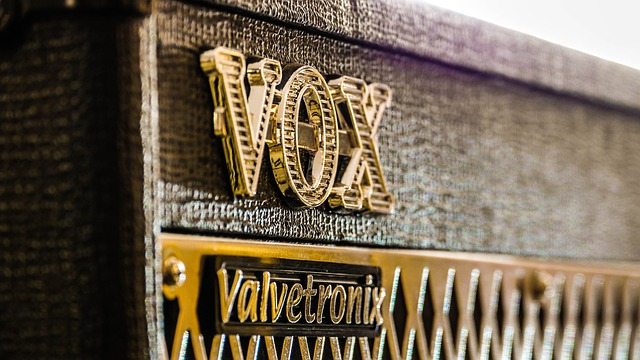
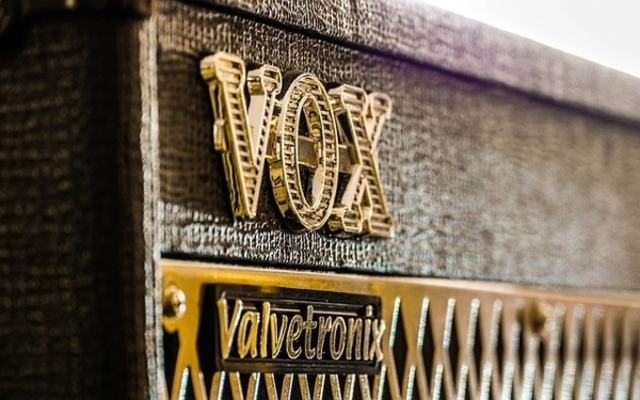
made changes to image sizes, linked the pictures and panel headings, created a location page and about page

diff --git a/GuitarStore/Content/Site.min.css b/GuitarStore/Content/Site.min.css
@@ -1,1 +1,1 @@
-.body-content{padding-left:15px;padding-right:15px;}.dl-horizontal dt{white-space:normal;}*{box-sizing:border-box;font-family:arial,sans-serif;}body{background:url(/images/background.jpeg);background-attachment:fixed;background-size:cover;background-repeat:no-repeat;padding-top:50px;padding-bottom:20px;}table,tr,td,th{background-color:#fff;color:#000;}.jumbotron{background-color:rgba(255,255,250,.7);color:#000;}.panel{background-color:rgba(255,255,250,.7);margin-top:3em;}.panel-body,.panel-footer{background-color:rgba(255,255,250,.7);}.panel-heading{background-color:rgba(255,255,250,.5);}#guitar-icon{border-radius:50px;max-height:1.5em;max-width:1.5em;}
+.body-content{padding-left:15px;padding-right:15px;}.dl-horizontal dt{white-space:normal;}*{box-sizing:border-box;font-family:arial,sans-serif;}body{background:url(/images/background.jpeg);background-attachment:fixed;background-size:cover;background-repeat:no-repeat;padding-top:50px;padding-bottom:20px;}iframe{margin-top:3em;margin-bottom:5em;}li{height:100%;}table,tr,td,th{background-color:#fff;color:#000;}.jumbotron{background-color:rgba(255,255,250,.7);}.panel{background-color:rgba(255,255,250,.7);margin-top:3em;margin-bottom:5em;}.panel .panel-body,.panel .panel-footer{background-color:rgba(255,255,250,.7);}.panel .panel-body a,.panel .panel-footer a{color:#000;}.panel .panel-heading{background-color:rgba(255,255,250,.5);}.panel .panel-heading a{color:#000;}#guitar-icon{border-radius:50px;height:100%;}

diff --git a/GuitarStore/Content/Site.less b/GuitarStore/Content/Site.less
@@ -28,6 +28,14 @@ body {
     padding-bottom: 20px;
 }
 
+iframe {
+    margin-top: 3em;
+    margin-bottom: 5em;
+}
+
+li {
+    height: 100%;
+}
 
 table, tr, td, th {
     background-color: white;
@@ -36,28 +44,36 @@ table, tr, td, th {
 
 
 //classes
+
 .jumbotron {
     background-color: rgba(255, 255, 250, 0.7);
-    color: black;
 }
 
 .panel {
     background-color: rgba(255, 255, 250, 0.7);
     margin-top: 3em;
-}
+    margin-bottom: 5em;
 
-.panel-body, .panel-footer {
-    background-color: rgba(255, 255, 250, 0.7);
-}
+    .panel-body, .panel-footer {
+        background-color: rgba(255, 255, 250, 0.7);
 
-.panel-heading {
-    background-color: rgba(255, 255, 250, 0.5);
-}
+        a {
+            color: black;
+        }
+    }
 
+    .panel-heading {
+        background-color: rgba(255, 255, 250, 0.5);
+
+        a {
+            color: black;
+        }
+    }
+}
 
 //ids
 #guitar-icon {
     border-radius: 50px;
-    max-height: 1.5em;
-    max-width: 1.5em;
+    height: 100%;
+
 }

diff --git a/GuitarStore/Content/Site.css b/GuitarStore/Content/Site.css
@@ -23,6 +23,13 @@ body {
   padding-top: 50px;
   padding-bottom: 20px;
 }
+iframe {
+  margin-top: 3em;
+  margin-bottom: 5em;
+}
+li {
+  height: 100%;
+}
 table,
 tr,
 td,
@@ -32,21 +39,27 @@ th {
 }
 .jumbotron {
   background-color: rgba(255, 255, 250, 0.7);
-  color: black;
 }
 .panel {
   background-color: rgba(255, 255, 250, 0.7);
   margin-top: 3em;
+  margin-bottom: 5em;
 }
-.panel-body,
-.panel-footer {
+.panel .panel-body,
+.panel .panel-footer {
   background-color: rgba(255, 255, 250, 0.7);
 }
-.panel-heading {
+.panel .panel-body a,
+.panel .panel-footer a {
+  color: black;
+}
+.panel .panel-heading {
   background-color: rgba(255, 255, 250, 0.5);
+}
+.panel .panel-heading a {
+  color: black;
 }
 #guitar-icon {
   border-radius: 50px;
-  max-height: 1.5em;
-  max-width: 1.5em;
+  height: 100%;
 }

diff --git a/GuitarStore/Controllers/ProductController.cs b/GuitarStore/Controllers/ProductController.cs
@@ -26,7 +26,7 @@ namespace GuitarStore.Controllers
                         ProductType = "Guitar",
                         Make = "Fender",
                         Mod = "Stratocaster",
-                        Color = "White",
+                        Color = "Black",
                         Description = "A true classic from the 1950s",
                         Image = "/images/strat.jpg",
                         Price = 599m,
@@ -128,11 +128,11 @@ namespace GuitarStore.Controllers
                     {
                         ProductType = "Effect",
                         ID = "e3",
-                        Make = "Digitech",
-                        Mod = "Whammy",
-                        EffectType = "Tone shifter",
-                        Description = "Used by guitar legend Tom Morello of Rage Against the Machine fame.",
-                        Image = "/images/whammy.gif",
+                        Make = "Ibanez",
+                        Mod = "Tube Screamer",
+                        EffectType = "Overdrive",
+                        Description = "Make your tones soar!.",
+                        Image = "/images/tubescreamer.jpg",
                         Price = 79m
                     });
                     return View(product);
@@ -242,11 +242,11 @@ namespace GuitarStore.Controllers
 
                 case "e3":
                     product.ProductType = "Effect";
-                    product.Make = "Digitech";
-                    product.Mod = "Whammy";
-                    product.EffectType = "Tone shifter";
-                    product.Description = "Used by guitar legend Tom Morello of Rage Against the Machine fame";
-                    product.Image = "/images/whammy.gif";
+                    product.Make = "Ibanez";
+                    product.Mod = "Tube Screamer";
+                    product.EffectType = "Overdrive";
+                    product.Description = "Make your tone soar!";
+                    product.Image = "/images/tubescreamer.jpg";
                     product.Price = 79m;
                     product.Quantity = 1;
                     break;

diff --git a/GuitarStore/Controllers/CartController.cs b/GuitarStore/Controllers/CartController.cs
@@ -27,8 +27,18 @@ namespace GuitarStore.Controllers
             model.SubTotal = model.Products.Sum(x => x.Price * x.Quantity);
 
             model.Tax = model.SubTotal * .1025m;
-            model.ShippingAndHandling = model.Products.Sum(x => x.Quantity) * 1m;
+
+            if (model.SubTotal < 500)
+            {
+                model.ShippingAndHandling = model.Products.Sum(x => x.Quantity) * 29m;
+            }
+            else
+            {
+                model.ShippingAndHandling = 0;
+            }
+
             model.Total = model.SubTotal + model.Tax + model.ShippingAndHandling;
+
             return View(model);
         }
     }

diff --git a/GuitarStore/Models/Cart.cs b/GuitarStore/Models/Cart.cs
@@ -30,7 +30,15 @@ namespace GuitarStore.Models
             cart.SubTotal = cart.Products.Sum(x => x.Price * x.Quantity);
 
             cart.Tax = cart.SubTotal * .1025m;
-            cart.ShippingAndHandling = cart.Products.Sum(x => x.Quantity) * 1m;
+
+            if (cart.SubTotal < 500)
+            {
+                cart.ShippingAndHandling = cart.Products.Sum(x => x.Quantity) * 29m;
+            }
+            else
+            {
+                cart.ShippingAndHandling = 0;
+            }
             cart.Total = cart.SubTotal + cart.Tax + cart.ShippingAndHandling;
             return cart;
         }

diff --git a/GuitarStore/Controllers/HomeController.cs b/GuitarStore/Controllers/HomeController.cs
@@ -13,6 +13,16 @@ namespace GuitarStore.Controllers
             return View();
         }
 
+        public ActionResult Location()
+        {
+            return View();
+        }
+
+        public ActionResult About()
+        {
+            return View();
+        }
+
 
     }
 }
